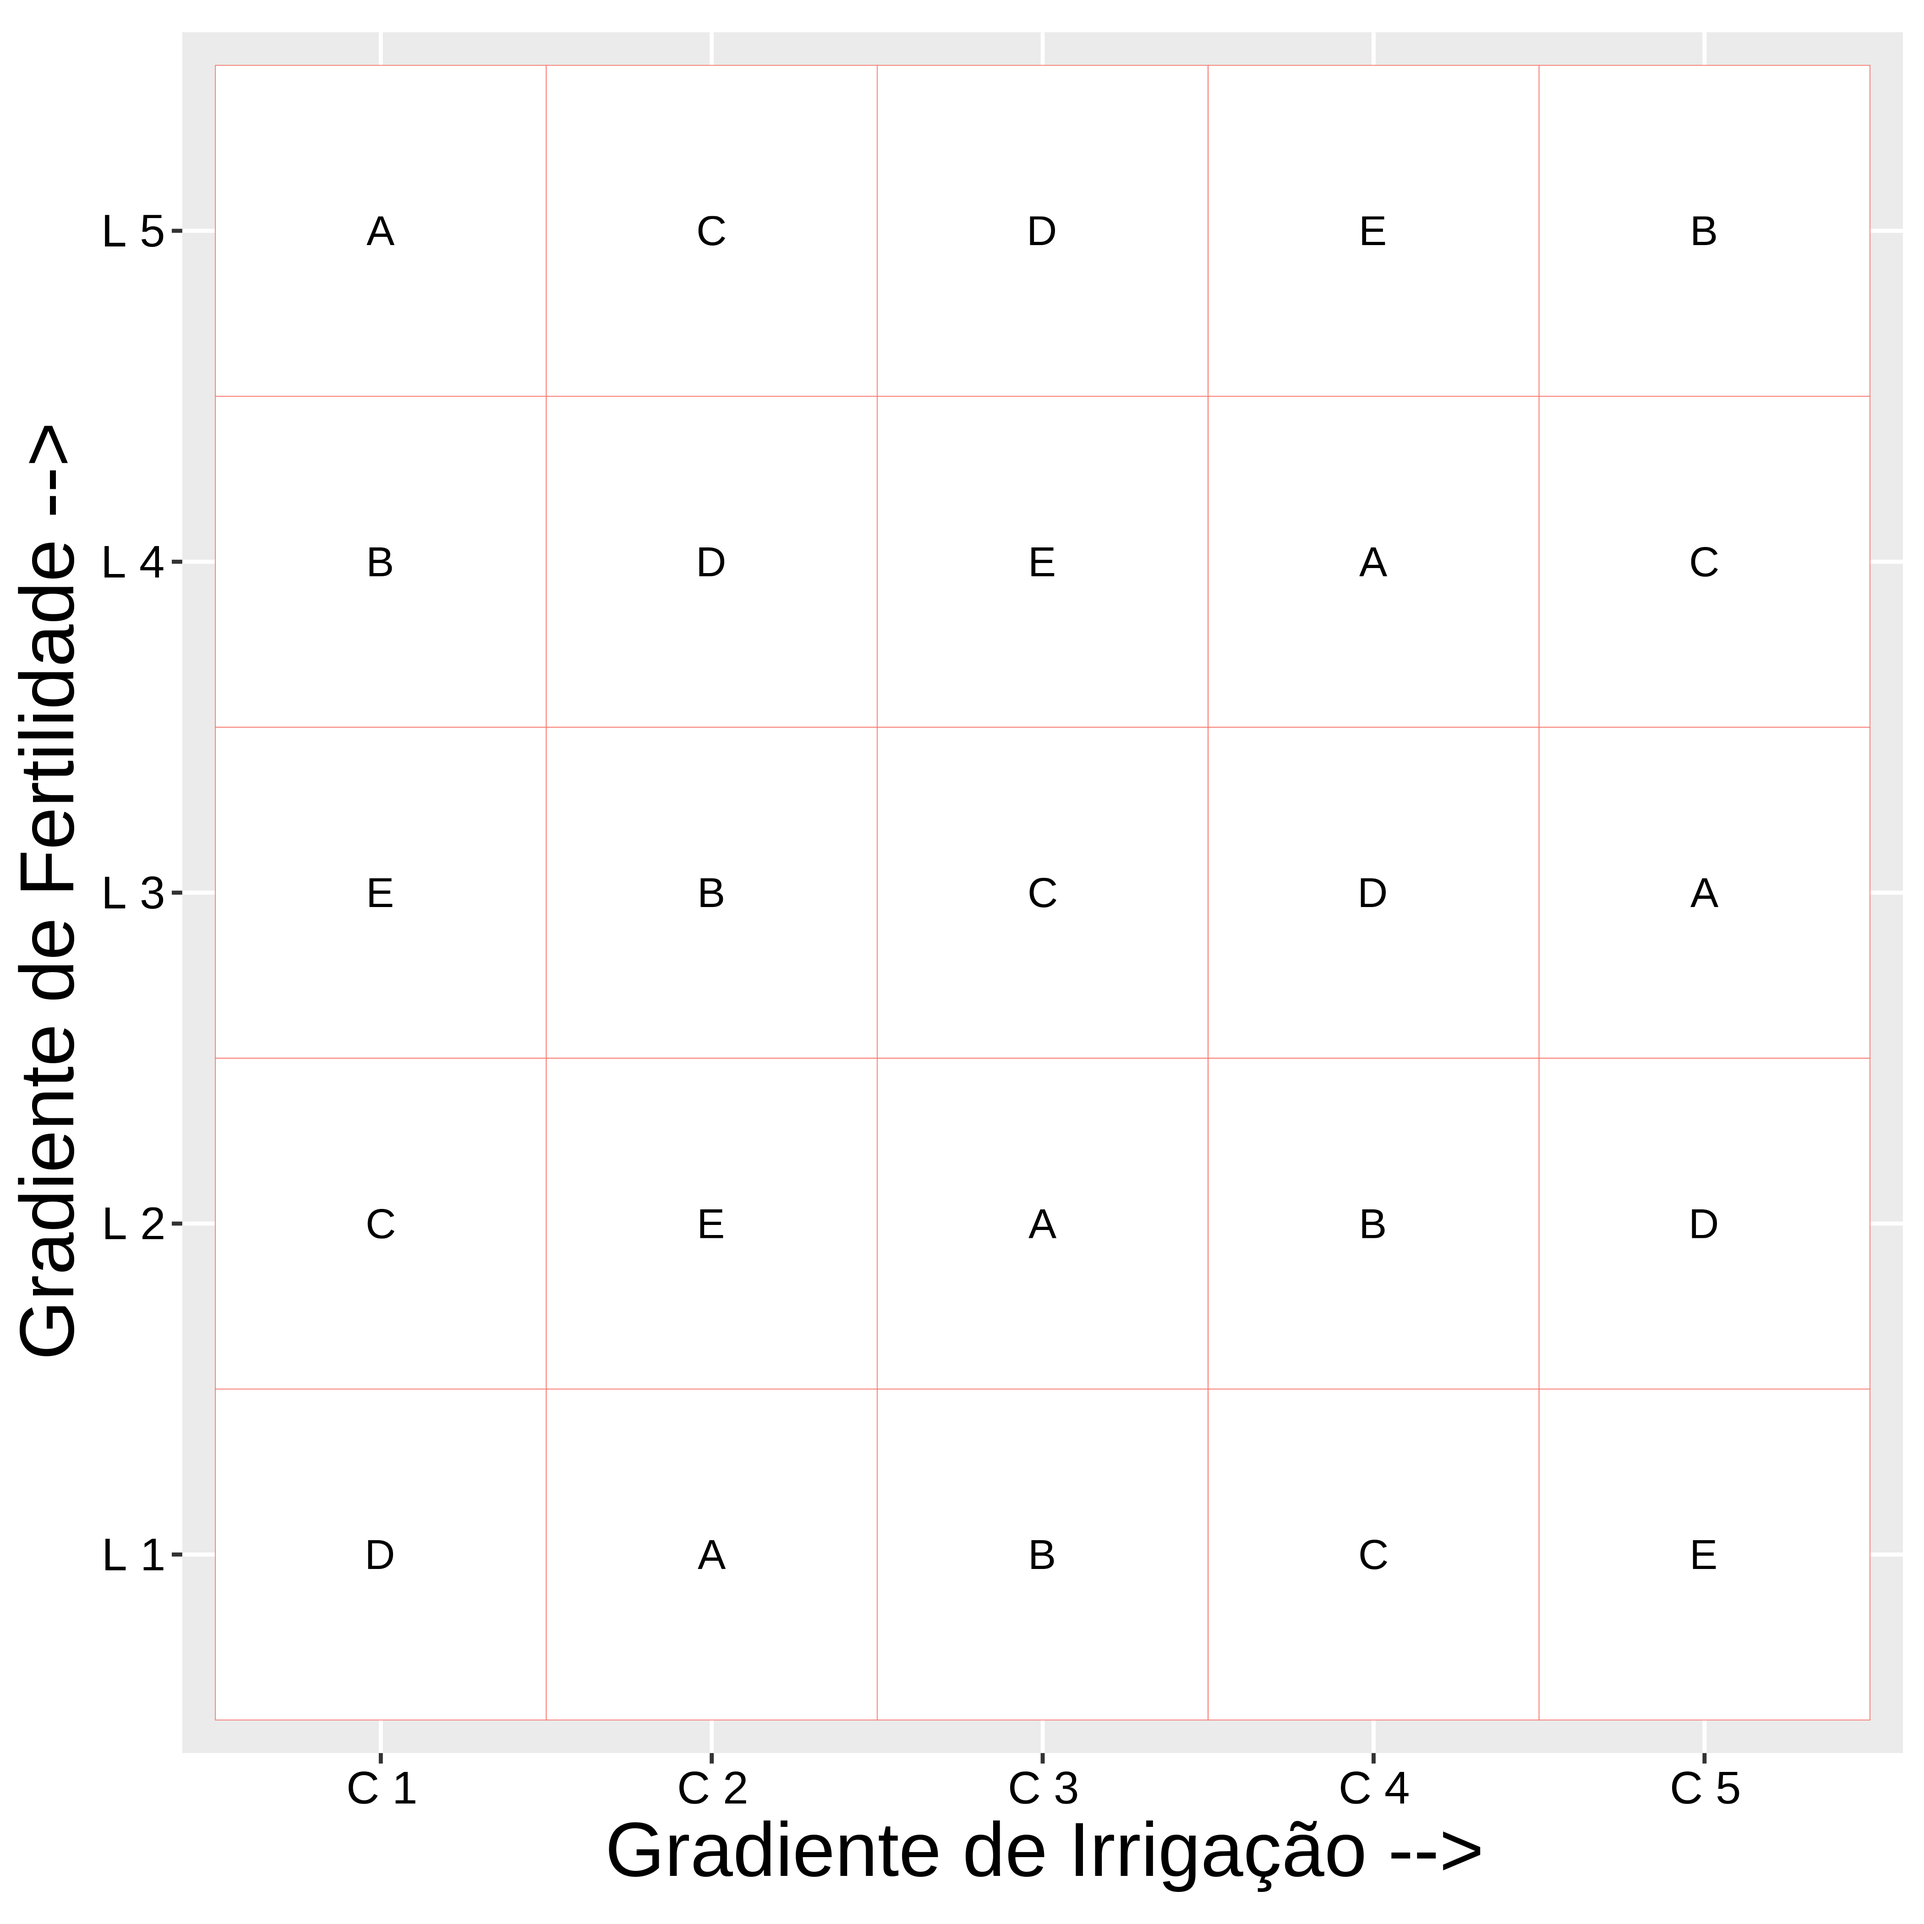
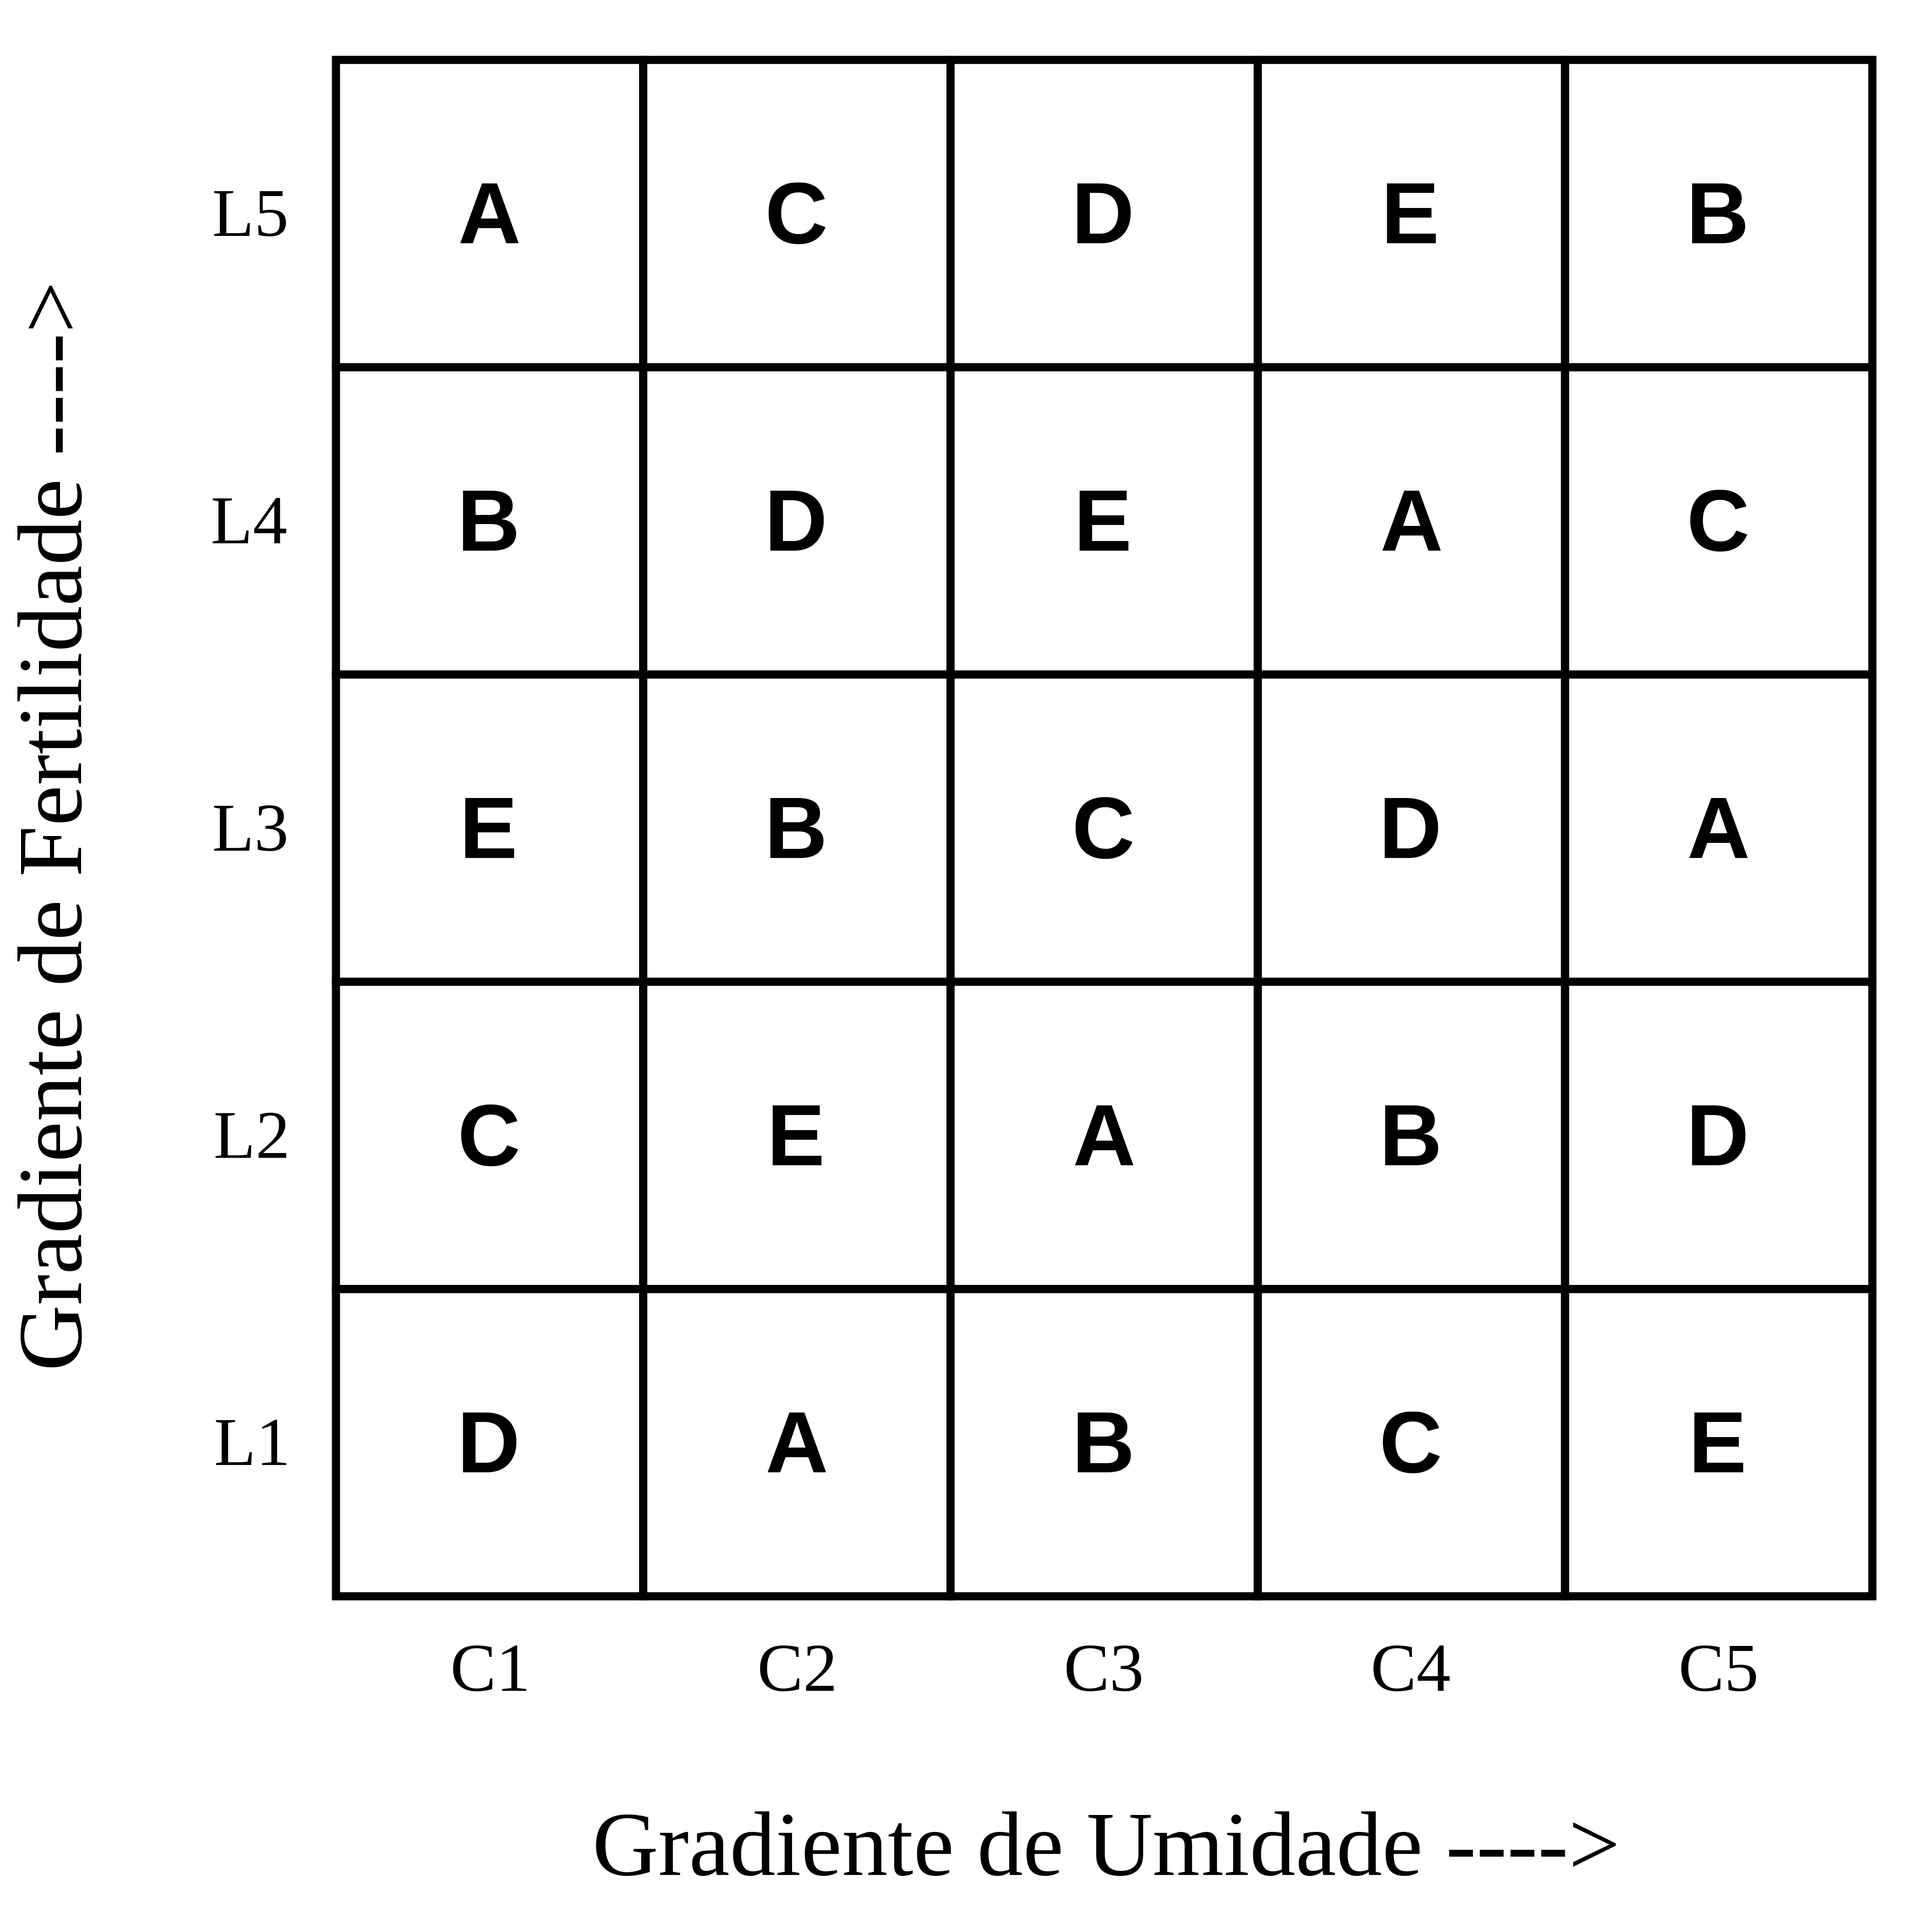
Update DQL class

diff --git a/Slides/Aula6-DQL.html b/Slides/Aula6-DQL.html
@@ -7,7 +7,7 @@
     <script src="Aula6-DQL_files/header-attrs-2.7/header-attrs.js"></script>
     <link href="Aula6-DQL_files/remark-css-0.0.1/default.css" rel="stylesheet" />
     <link href="Aula6-DQL_files/xaringanExtra-extra-styles-0.2.6/xaringanExtra-extra-styles.css" rel="stylesheet" />
-    <script type="application/json" id="xaringanExtra-editable-docid">{"id":"x2667802a05f4ab7b22613a710b7c566","expires":1}</script>
+    <script type="application/json" id="xaringanExtra-editable-docid">{"id":"eb67c8abd11d4c6692ba090a44b6386c","expires":1}</script>
     <script src="Aula6-DQL_files/himalaya-1.1.0/himalaya.js"></script>
     <script src="Aula6-DQL_files/js-cookie-3.0.0/js.cookie.js"></script>
     <link href="Aula6-DQL_files/editable-0.2.6/editable.css" rel="stylesheet" />
@@ -98,7 +98,7 @@ top:.8em;right:-.5em;
 ##### Faculdade de Engenharia Florestal
 ##### E-mail: deivisonvs@ufpa.br
 &lt;br&gt;
-##### 16/agosto/2021
+##### 17/agosto/2021
 ##### Altamira, Pará
 
 ---
@@ -425,6 +425,37 @@ O DQL utiliza dos 3 princípios básicos da experimentação.
 ---
 name: croqui
 ## Delineamento em Quadrado Latino
+&lt;br&gt;
+
+### Esquema de um experimento em DQL com 5 tratamentos
+
+
+.pull-left-4[
+&lt;img src="Aula6-DQL_files/figure-html/unnamed-chunk-6-1.png" width="75%" style="display: block; margin: auto;" /&gt;
+
+]
+
+--
+
+.pull-right-4[
+&lt;br&gt;
+.font90[
+A, B, C, D, E → Tratamentos
+
+C1, C2, C3, C4, C5  → Blocos-colunas
+
+L1, L2, L3, L4, L5 → Blocos-linhas
+&lt;br&gt;&lt;br&gt;
+
+- Cada tratamento deve aparecer apenas uma vez na linha e na coluna.
+- Tem-se 25 parcelas experimentais (N=I²), geradas pelo cruzamento de 5 linhas e 5 colunas.
+- Cada parcela experimental pode ser constituída por um grupo de indivíduos (plantas).
+]
+]
+
+---
+
+## Delineamento em Quadrado Latino
 
 .pull-left-5[
 .font80[
@@ -443,8 +474,19 @@ Croqui de um experimento em delineamento de quadrado latino 5x5 com bordadura de
 ---
 
 ## Delineamento em Quadrado Latino
+&lt;br&gt;
 
-&lt;img src="Aula6-DQL_files/figure-html/unnamed-chunk-7-1.png" width="50%" style="display: block; margin: auto;" /&gt;
+### .font80[Casualização dos tratamentos às unidades experimentais (Nogueira, 2007)]
+&lt;br&gt;
+
+Uma forma de realizar a casualização de tratamentos em DQL é apresentada por Nogueira (2007).
+&lt;br&gt;&lt;br&gt;
+
+Então, seja um experimento em DQL com cinco tratamentos (A, B, C, D e E), ter-se-ia:
+
+- 5 linhas (5 blocos no sentido horizontal), cada bloco com 5 parcelas experimentais;
+- 5 colunas (5 blocos no sentido vertical), cada bloco com 5 parcelas experimentais.
+
 
 
 
